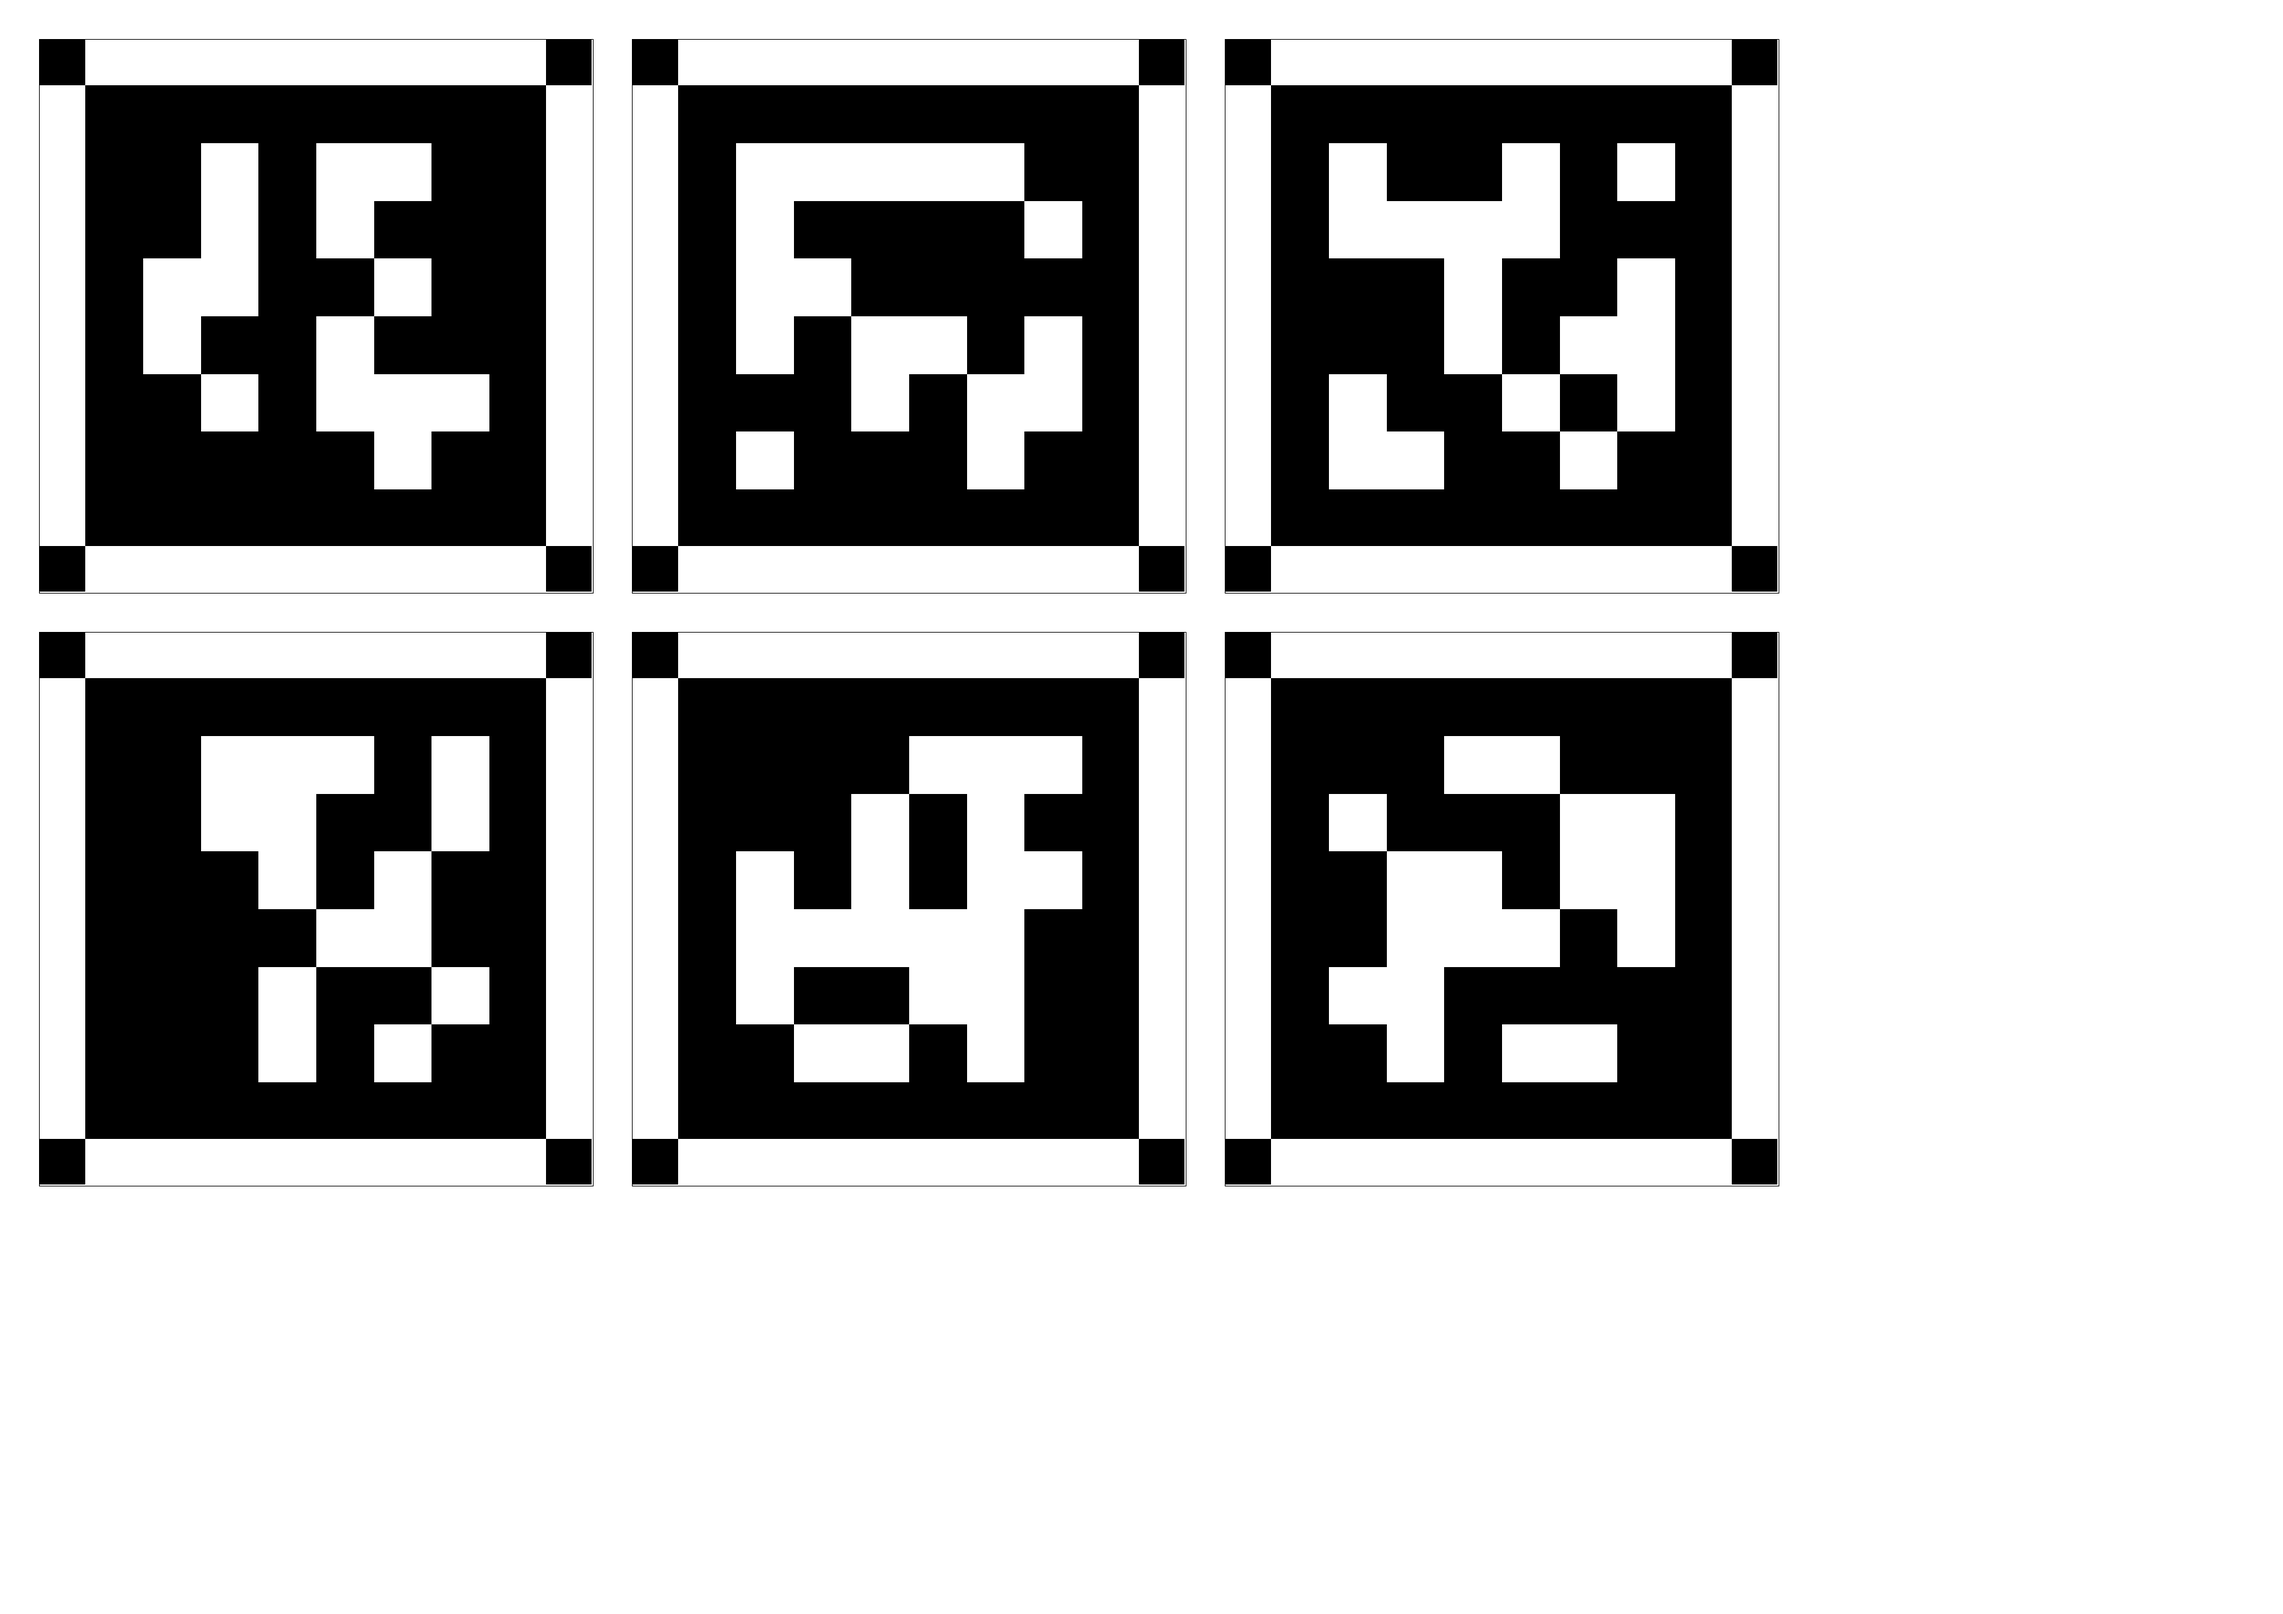
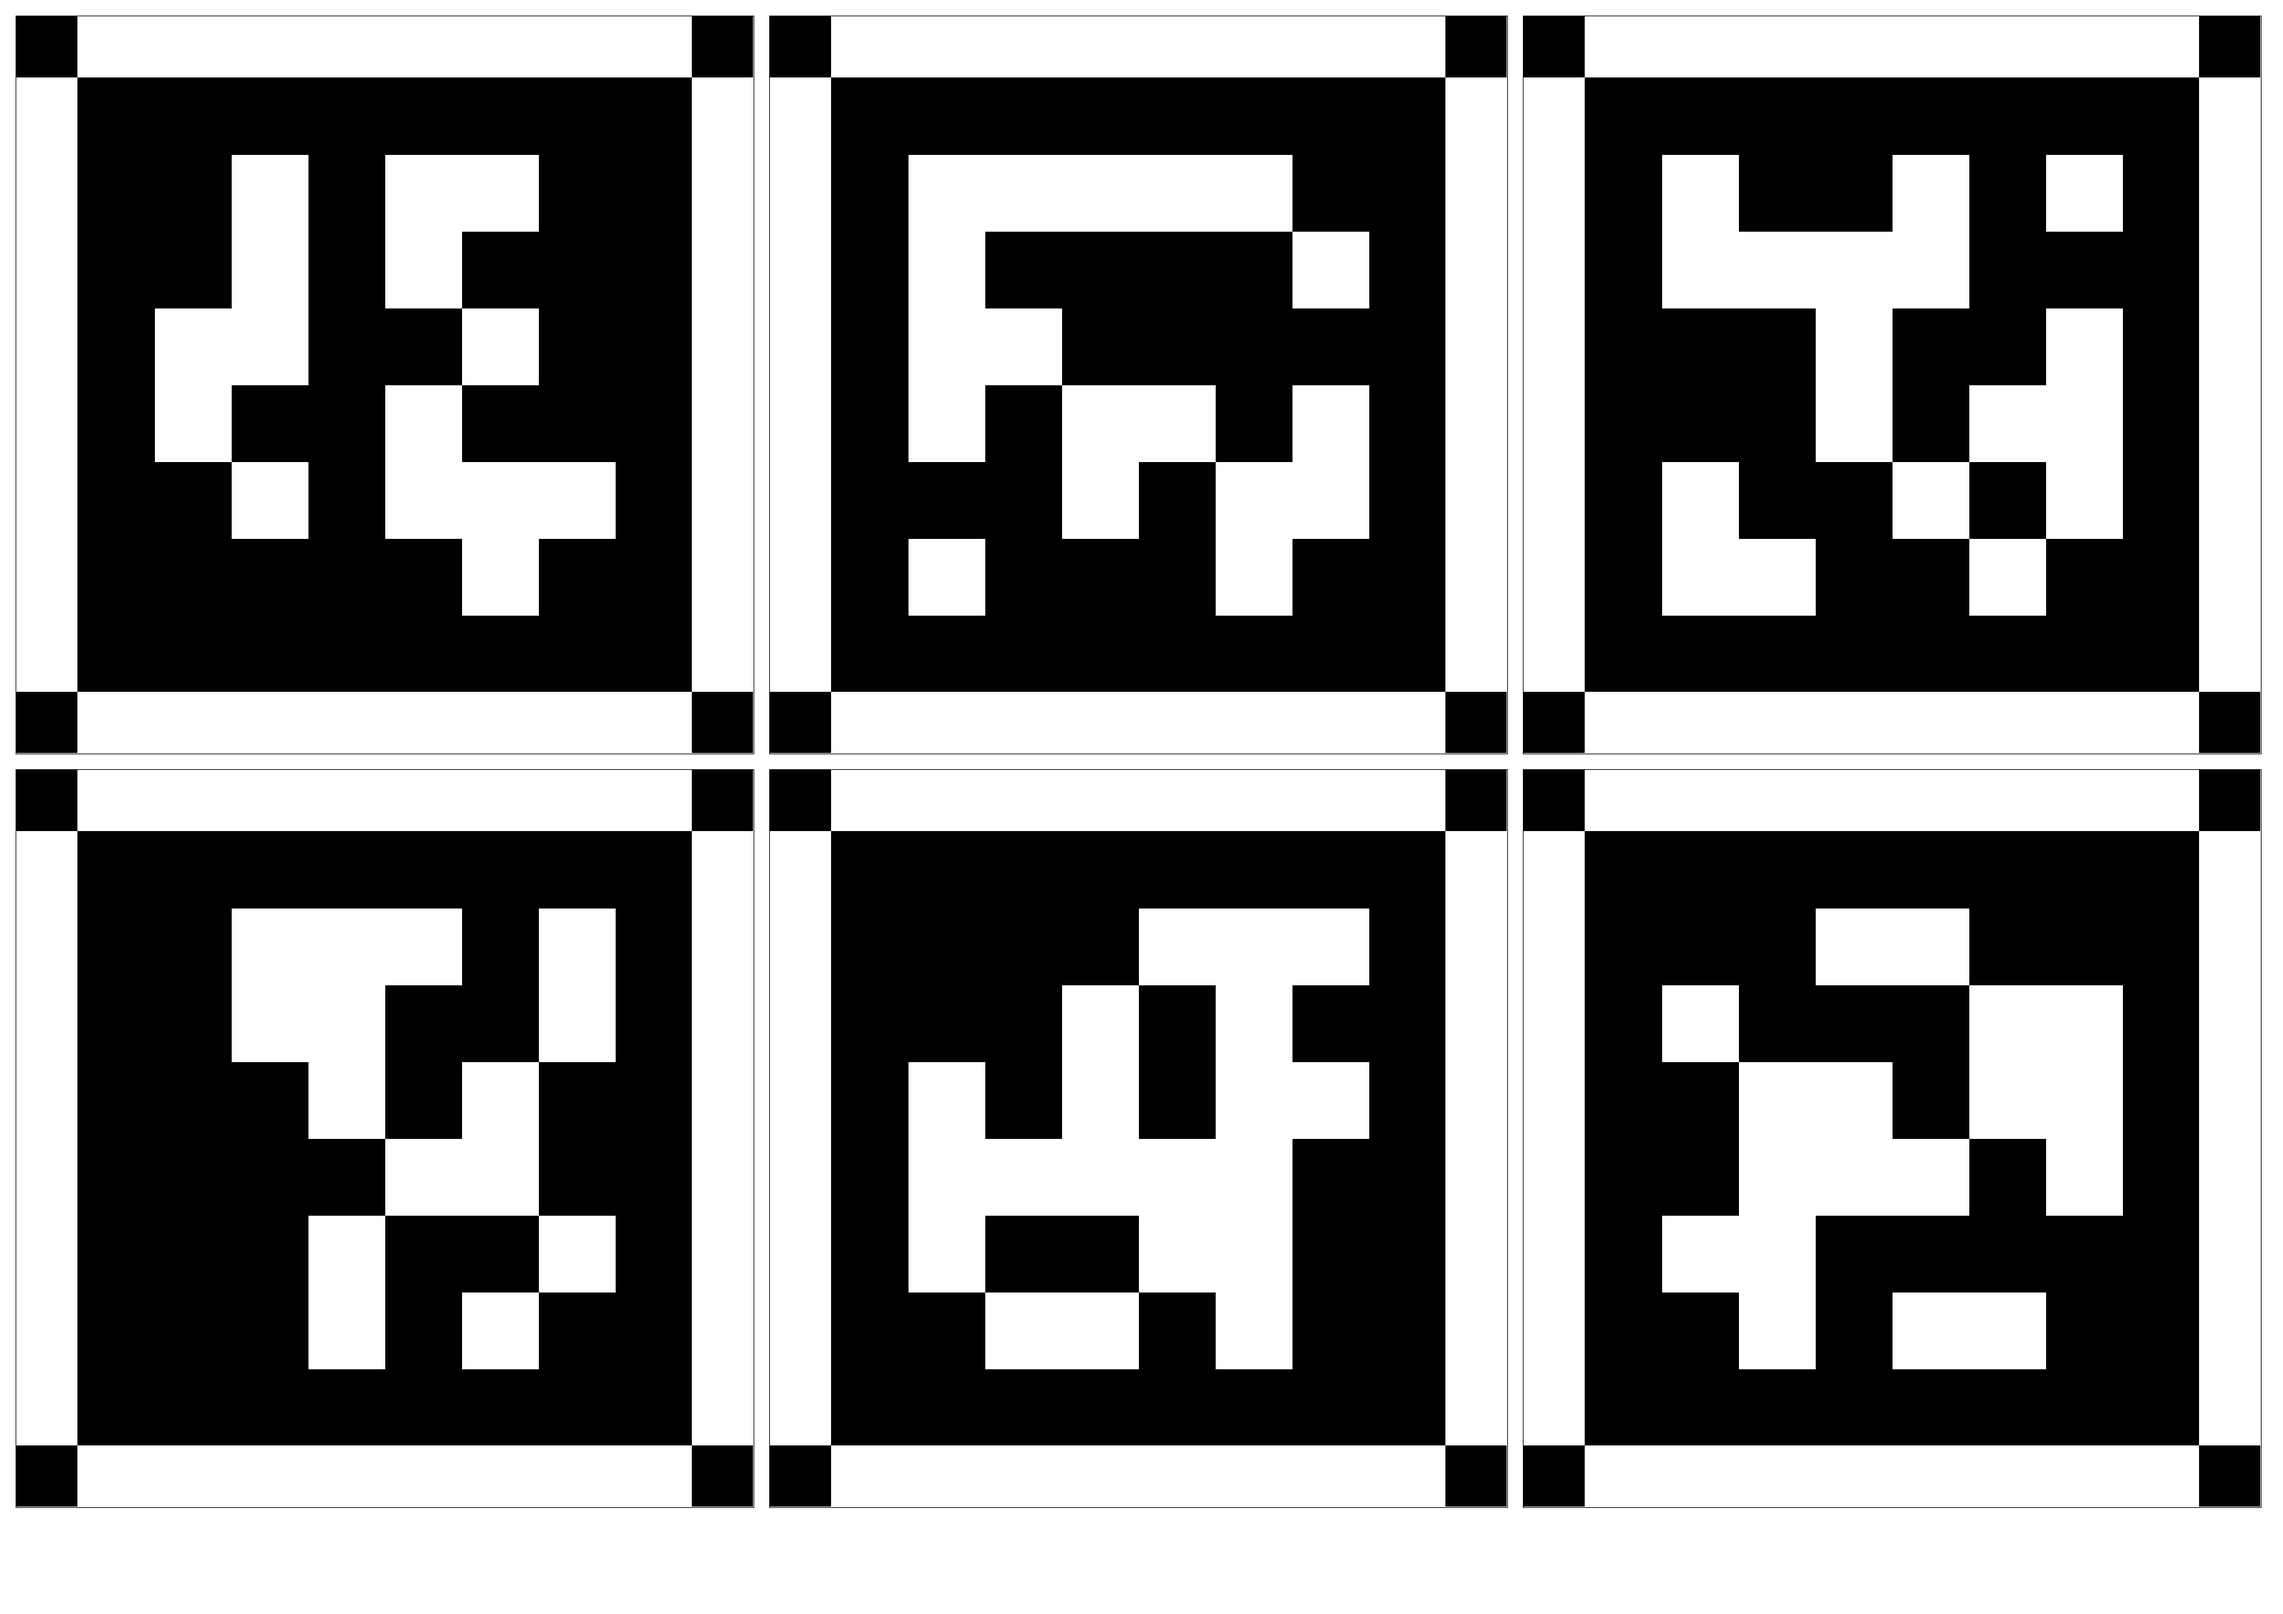
Update markers

diff --git a/marker_sheet_generator.py b/marker_sheet_generator.py
@@ -13,9 +13,9 @@ ARUCO_DICTIONARY = aruco.getPredefinedDictionary(cv2.aruco.DICT_APRILTAG_36h11)
 PAPER_SIZE_HORISONTAL = 297  # [mm]
 PAPER_SIZE_VERTICAL = 210  # [mm]
 
-MARKER_SIZE = 60  # [mm]
+MARKER_SIZE = 80  # [mm]
 RECT_SIZE = int(1.2 * MARKER_SIZE)
-PATTERN_MARGIN = 5
+PATTERN_MARGIN = 2
 CORNER_RECT_SIZE_RATE = 0.1
 
 
